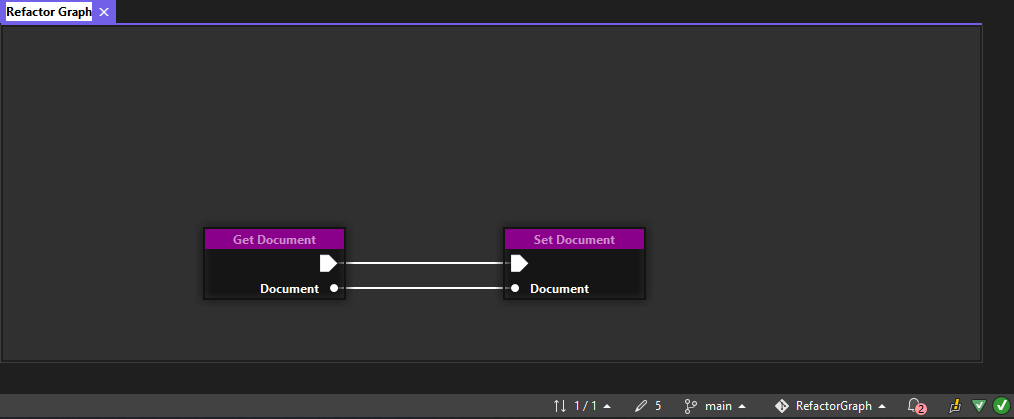
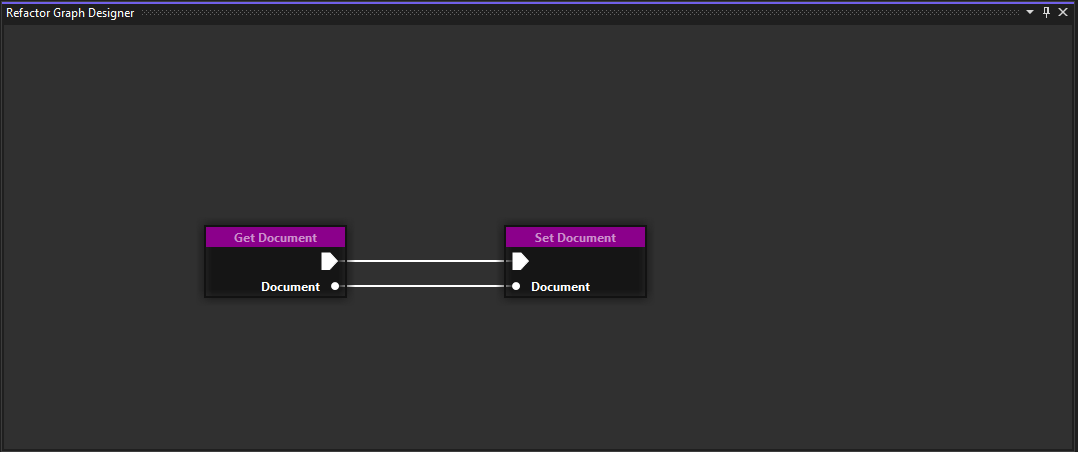
Updating documentation and header

Changed region(s): [[0.1834, 0.4964, 0.642, 0.7136], [0.0, 0.0, 1.0, 0.0621], [0.0, 0.9308, 1.0, 1.0]]

diff --git a/RefactorGraph/Wpf/DesignerWindow.cs b/RefactorGraph/Wpf/DesignerWindow.cs
@@ -37,7 +37,7 @@ namespace RefactorGraph
         #region Methods
         public override string GetTitle(int toolWindowId)
         {
-            return "Refactor Graph";
+            return "Refactor Graph Designer";
         }
 
         public override Task<FrameworkElement> CreateAsync(int toolWindowId, CancellationToken cancellationToken)
